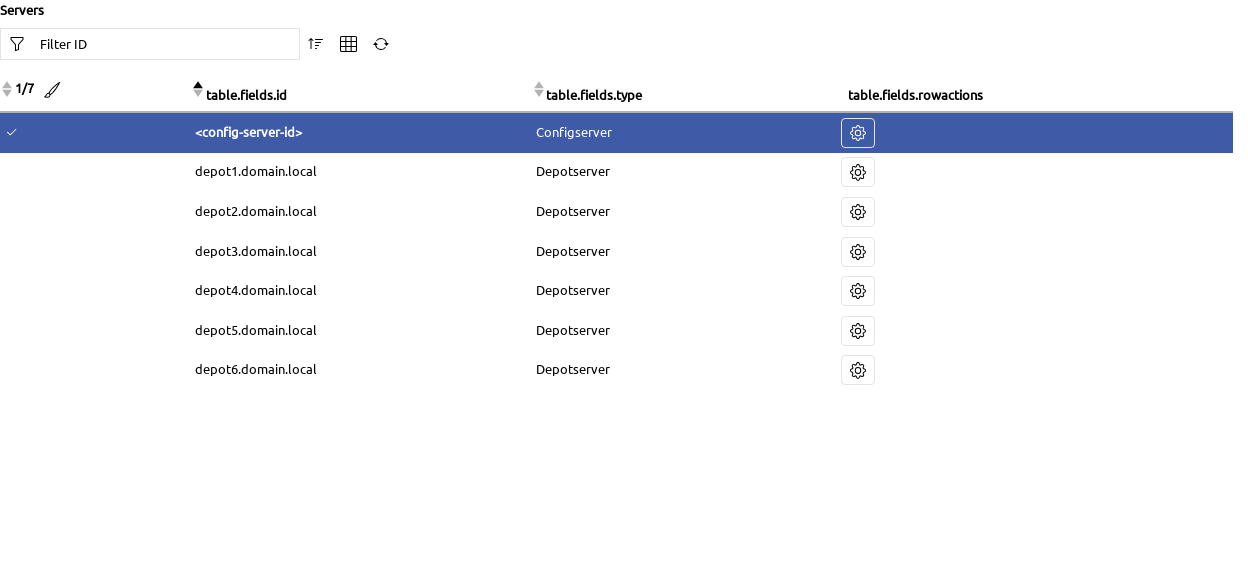
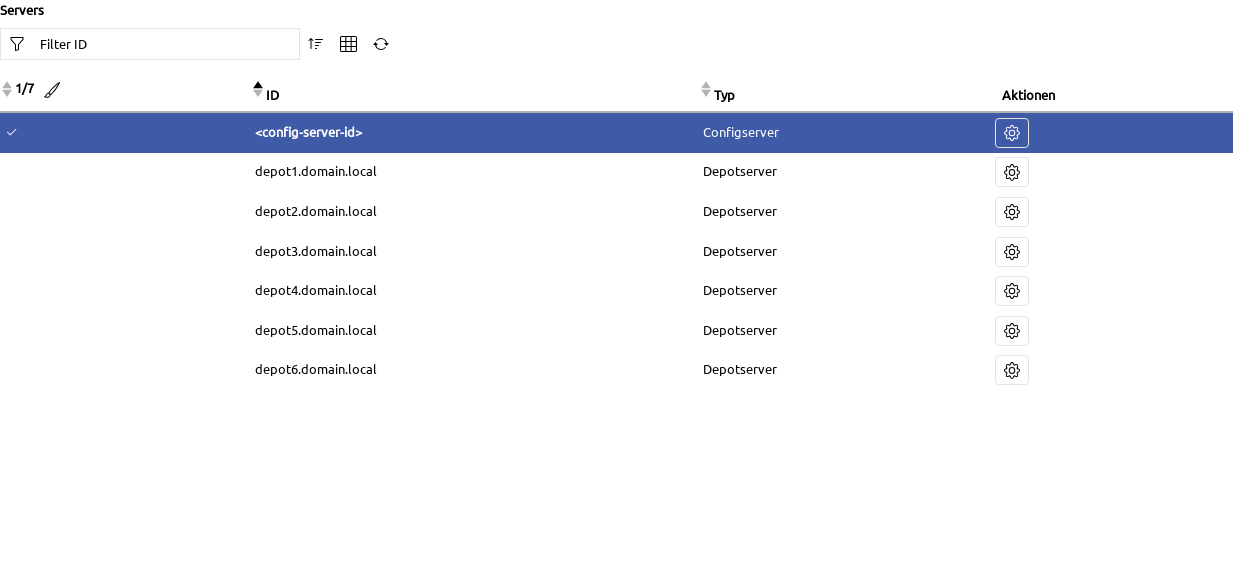
[fix] screenshots4docs
Former-commit-id: 7a0d3c85779f362c63a476146eb6fcd7884553e2

diff --git a/opsiweb/screenshots4Docs/take_screenshots/products.test.screenshot.js b/opsiweb/screenshots4Docs/take_screenshots/products.test.screenshot.js
@@ -2,18 +2,20 @@ const { test } = require('@playwright/test')
 const { callStoryId } = require('../../uib-components/.utils/playwright/pw-story-call')
 const en = require('../../uib-components/locale/en.json')
 const de = require('../../uib-components/locale/de.json')
+
 test('Products', async ({ page }) => {
   await callStoryId(page, 'view-v-products', 'v-products')
   const component = await page.locator('[data-testid="VProducts"]')
   await (new Promise(resolve => setTimeout(resolve, 1000)))
   await page.evaluate((val) => { document.querySelector('.tableheader_title').innerHTML = val }, en['title.products'])
-  // await page.evaluate((val) => { document.getElementById('treeselect-Depots').innerHTML = val }, en['title.depots'])
-  // await page.evaluate((val) => { document.getElementById('treeselect-HostGroups').innerHTML = val }, en['treeselect.clientGroups'])
-  // await page.evaluate((val) => { document.getElementById('treeselect-ProductGroups').innerHTML = val }, en['treeselect.prodGroups'])
-  await component.evaluate(() => { document.querySelector('.count').innerHTML = '0/3' })
-  await component.evaluate(() => { document.querySelector('.localboot').innerHTML = 'Localboot(3)' })
-  await component.evaluate(() => { document.querySelector('.netboot').innerHTML = 'Netboot(7)' })
-  await component.evaluate(() => { document.querySelector('.filter').placeholder = 'Filter ID' })
+
+  await page.evaluate((val) => { document.querySelector('[aria-colindex="2"] > small > b').innerHTML = val }, en['table.fields.id'])
+  await page.evaluate((val) => { document.querySelector('[aria-colindex="3"] > small > b').innerHTML = val }, en['table.fields.rowactions'])
+
+  await page.evaluate(() => { document.querySelector('.count').innerHTML = '0/3' })
+  await page.evaluate((val) => { document.querySelector('.localboot').innerHTML = val }, en['title.localboot'] + ' (3)')
+  await page.evaluate((val) => { document.querySelector('.netboot').innerHTML = val }, en['title.netboot'] + ' (7)')
+  await page.evaluate((val) => { document.querySelector('.filter').placeholder = val }, en['table.filter'].replace('{el}', en['table.fields.id']))
   await page.screenshot({
     path: './screenshots/en/opsi-webgui_products.png',
     clip: {
@@ -24,6 +26,11 @@ test('Products', async ({ page }) => {
     }
   })
   await page.evaluate((val) => { document.querySelector('.tableheader_title').innerHTML = val }, de['title.products'])
+
+  await page.evaluate(() => { document.querySelector('.count').innerHTML = '0/3' })
+  await page.evaluate((val) => { document.querySelector('.localboot').innerHTML = val }, de['title.localboot'] + ' (3)')
+  await page.evaluate((val) => { document.querySelector('.netboot').innerHTML = val }, de['title.netboot'] + ' (7)')
+  await page.evaluate((val) => { document.querySelector('.filter').placeholder = val }, de['table.filter'].replace('{el}', de['table.fields.id']))
   // await page.evaluate((val) => { document.getElementById('treeselect-HostGroups').innerHTML = val }, de['treeselect.clientGroups'])
   // await page.evaluate((val) => { document.getElementById('treeselect-ProductGroups').innerHTML = val }, de['treeselect.prodGroups'])
   await page.screenshot({

diff --git a/opsiweb/screenshots4Docs/take_screenshots/servers.test.screenshot.js b/opsiweb/screenshots4Docs/take_screenshots/servers.test.screenshot.js
@@ -1,14 +1,24 @@
 const { test } = require('@playwright/test')
 const { callStoryId } = require('../../uib-components/.utils/playwright/pw-story-call')
 const en = require('../../uib-components/locale/en.json')
+const de = require('../../uib-components/locale/de.json')
 
 test('Servers', async ({ page }) => {
   await callStoryId(page, 'view-v-depots', 'v-depots')
   const component = await page.locator('[data-testid="VDepots"]')
   await (new Promise(resolve => setTimeout(resolve, 1000)))
+  await page.evaluate(() => { document.querySelector('.count').innerHTML = '1/7' })
   await page.evaluate((val) => { document.querySelector('.tableheader_title').innerHTML = val }, en['title.depots'])
-  await component.evaluate(() => { document.querySelector('.count').innerHTML = '1/7' })
-  await component.evaluate(() => { document.querySelector('.filter').placeholder = 'Filter ID' })
+  await page.evaluate((val) => { document.querySelector('[aria-colindex="2"] > small > b').innerHTML = val }, en['table.fields.id'])
+  await page.evaluate((val) => { document.querySelector('[aria-colindex="3"] > small > b').innerHTML = val }, en['table.fields.type'])
+  await page.evaluate((val) => { document.querySelector('[aria-colindex="4"] > small > b').innerHTML = val }, en['table.fields.rowactions'])
+  await page.evaluate((val) => { document.querySelector('.filter').placeholder = val }, en['table.filter'].replace('{el}', en['table.fields.id']))
   await component.screenshot({ path: './screenshots/en/opsi-webgui_servers.png' })
+
+  await page.evaluate((val) => { document.querySelector('.tableheader_title').innerHTML = val }, de['title.depots'])
+  await page.evaluate((val) => { document.querySelector('[aria-colindex="2"] > small > b').innerHTML = val }, de['table.fields.id'])
+  await page.evaluate((val) => { document.querySelector('[aria-colindex="3"] > small > b').innerHTML = val }, de['table.fields.type'])
+  await page.evaluate((val) => { document.querySelector('[aria-colindex="4"] > small > b').innerHTML = val }, de['table.fields.rowactions'])
+  await page.evaluate((val) => { document.querySelector('.filter').placeholder = val }, de['table.filter'].replace('{el}', de['table.fields.id']))
   await component.screenshot({ path: './screenshots/de/opsi-webgui_servers.png' })
 })

diff --git a/opsiweb/screenshots4Docs/take_screenshots/clients.test.screenshot.js b/opsiweb/screenshots4Docs/take_screenshots/clients.test.screenshot.js
@@ -10,7 +10,10 @@ test('Clients', async ({ page }) => {
   await page.evaluate((val) => { document.querySelector('.tableheader_title').innerHTML = val }, en['title.clients'])
   // await page.evaluate((val) => { document.getElementById('treeselect-Depots').innerHTML = val }, en['title.depots'])
   await component.evaluate(() => { document.querySelector('.count').innerHTML = '0/5' })
-  await component.evaluate(() => { document.querySelector('.filter').placeholder = 'Filter ID' })
+
+  await page.evaluate((val) => { document.querySelector('[aria-colindex="2"] > small > b').innerHTML = val }, en['table.fields.id'])
+  await page.evaluate((val) => { document.querySelector('[aria-colindex="7"] > small > b').innerHTML = val }, en['table.fields.rowactions'])
+  await page.evaluate((val) => { document.querySelector('.filter').placeholder = val }, en['table.filter'].replace('{el}', en['table.fields.id']))
 
   // await page.evaluate((val) => { document.getElementById('treeselect-HostGroups').innerHTML = val }, en['treeselect.clientGroups'])
   await page.evaluate((val) => { document.querySelector('.tableheader_products').innerHTML = val }, en['title.products'])
@@ -23,6 +26,11 @@ test('Clients', async ({ page }) => {
       height: 460
     }
   })
+
+  await page.evaluate((val) => { document.querySelector('.tableheader_title').innerHTML = val }, de['title.clients'])
+  await page.evaluate((val) => { document.querySelector('[aria-colindex="2"] > small > b').innerHTML = val }, de['table.fields.id'])
+  await page.evaluate((val) => { document.querySelector('[aria-colindex="7"] > small > b').innerHTML = val }, de['table.fields.rowactions'])
+  await page.evaluate((val) => { document.querySelector('.filter').placeholder = val }, de['table.filter'].replace('{el}', de['table.fields.id']))
   // await page.evaluate((val) => { document.getElementById('treeselect-HostGroups').innerHTML = val }, de['treeselect.clientGroups'])
   await page.evaluate((val) => { document.querySelector('.tableheader_products').innerHTML = val }, de['title.products'])
   await page.screenshot({

diff --git a/opsiweb/screenshots4Docs/take_screenshots/table.test.screenshot.js b/opsiweb/screenshots4Docs/take_screenshots/table.test.screenshot.js
@@ -23,6 +23,16 @@ test.describe('Table', () => {
     await page.evaluate((val) => { document.querySelector('.sortDirection').innerHTML = val }, de['button.sort.tablecolumns.sortDirection'])
     await page.screenshot({ path: './screenshots/de/opsi-webgui_table_sort.png' })
   })
+  test('Sort column', async ({ page }) => {
+    await callStoryId(page, 'table-t-infinite-scroll-smooth', 't-infinite-scroll-smooth')
+    await (new Promise(resolve => setTimeout(resolve, 1000)))
+    // await comp.setViewportSize({ width: 50 })
+    await page.evaluate((val) => { document.querySelector('[aria-sort="none"]').innerHTML = val }, '')
+    const comp = await page.locator('[aria-sort="none"]')
+
+    await comp.screenshot({ path: './screenshots/en/opsi-webgui_table_sort_column.png' })
+    await comp.screenshot({ path: './screenshots/de/opsi-webgui_table_sort_column.png' })
+  })
   test('Column Selection', async ({ page }) => {
     await callStoryId(page, 'dropdown-dd-table-column-visibility', 'dd-table-column-visibility')
     await page.click('[data-testid="DropdownDDTableColumnVisibility"] .btn')
@@ -37,9 +47,9 @@ test.describe('Table', () => {
     const component = await page.locator('[data-testid="BTNRefetch"]')
     await (new Promise(resolve => setTimeout(resolve, 1000)))
     await page.setViewportSize({ width: 220, height: 340 })
-    await page.evaluate((val) => { document.querySelector('.refreshlabel').innerHTML = val }, 'Refresh')
+    // await page.evaluate((val) => { document.querySelector('.refreshlabel').innerHTML = val }, 'Refresh')
     await component.screenshot({ path: './screenshots/en/opsi-webgui_table_refresh.png' })
-    await page.evaluate((val) => { document.querySelector('.refreshlabel').innerHTML = val }, 'Aktualisierung')
+    // await page.evaluate((val) => { document.querySelector('.refreshlabel').innerHTML = val }, 'Aktualisierung')
     await component.screenshot({ path: './screenshots/de/opsi-webgui_table_refresh.png' })
   })
 })

diff --git a/opsiweb/screenshots4Docs/take_screenshots/buttonclearselection.test.screenshot.js b/opsiweb/screenshots4Docs/take_screenshots/buttonclearselection.test.screenshot.js
@@ -1,14 +1,14 @@
 const { test } = require('@playwright/test')
 const { callStoryId } = require('../../uib-components/.utils/playwright/pw-story-call')
-const en = require('../../uib-components/locale/en.json')
-const de = require('../../uib-components/locale/de.json')
+// const en = require('../../uib-components/locale/en.json')
+// const de = require('../../uib-components/locale/de.json')
 
 test('Button Clear Selection', async ({ page }) => {
   await callStoryId(page, 'button-btn-clear-selection', 'btn-clear-selection')
   const component = await page.locator('[data-testid="BTNClearSelection"]')
   await (new Promise(resolve => setTimeout(resolve, 1000)))
-  await page.evaluate((val) => { document.querySelector('.clearButton').innerHTML = val }, en['table.selection.clear'])
+  // await page.evaluate((val) => { document.querySelector('.clearButton').innerHTML = val }, en['table.selection.clear'])
   await component.screenshot({ path: './screenshots/en/opsi-webgui_buttonclearselect.png' })
-  await page.evaluate((val) => { document.querySelector('.clearButton').innerHTML = val }, de['table.selection.clear'])
+  // await page.evaluate((val) => { document.querySelector('.clearButton').innerHTML = val }, de['table.selection.clear'])
   await component.screenshot({ path: './screenshots/de/opsi-webgui_buttonclearselect.png' })
 })

diff --git a/opsiweb/screenshots4Docs/take_screenshots/quickpanel.test.screenshot.js b/opsiweb/screenshots4Docs/take_screenshots/quickpanel.test.screenshot.js
@@ -4,6 +4,24 @@ const { callStoryId } = require('../../uib-components/.utils/playwright/pw-story
 // const de = require('../../uib-components/locale/de.json')
 
 test.describe('Quick Panel', () => {
+  test('', async ({ page }) => {
+    await page.unroute('**/api/**')
+    await page.route('**/api/**', (route) => {
+      console.log('ROUTE NOT MOCKED: \t\t', route._parent._initializer.url)
+      route.abort()
+    })
+    await callStoryId(page, 'bar-b-quick-panel', 'b-quick-panel')
+    await (new Promise(resolve => setTimeout(resolve, 1000)))
+    // await page.evaluate((val) => { document.querySelector('label>.text-small').innerHTML = val }, en['form.quicksave'])
+    const comp = page.locator('#quickpanel')
+    await comp.screenshot({ path: './screenshots/en/opsi-webgui_quickpanel.png' })
+
+    await page.click('[data-testid="DropdownDDLang"]')
+    await page.click('[data-testid="DropdownDDLang-Item-de"]')
+    // const component = page.locator('[data-testid="DropdownDDLang"]')
+    await comp.screenshot({ path: './screenshots/de/opsi-webgui_quickpanel.png' })
+  })
+
   test('tab depots', async ({ page }) => {
     await page.unroute('**/api/**')
     await page.route('**/api/**', (route) => {

diff --git a/opsiweb/uib-components/components/checkbox/CBQuickSave.vue b/opsiweb/uib-components/components/checkbox/CBQuickSave.vue
@@ -9,6 +9,7 @@
       <span class="text-small">{{ $t('message.error.unsavedChanges') }}</span>
     </AlertAAlertLocal>
     <div v-else class="d-flex flex-nowrap justify-content-center border">
+      <!-- -if="port=='8888'" -->
       <b-form-checkbox
         v-model="localquicksave"
         data-testid="CBQuickSave"
@@ -48,6 +49,7 @@ const changes = namespace('changes')
 @Component({ mixins: [Icons] })
 export default class CBQuickSave extends Vue {
   icon: any
+  window:any
   $t: any
   localquicksave: boolean = false
 
@@ -57,6 +59,7 @@ export default class CBQuickSave extends Vue {
   @changes.Getter public changesProducts!: Array<ChangeObj>
   @changes.Getter public changesHostParam!: Array<ChangeObj>
 
+  get port () { return window.location.port }
   beforeMount () {
     this.localquicksave = this.quicksave
   }

diff --git a/opsiweb/uib-components/components/button/BTNClearSelection.stories.js b/opsiweb/uib-components/components/button/BTNClearSelection.stories.js
@@ -6,8 +6,13 @@ export default {
 
 const PrimaryTemplate = (_args, { argTypes }) => ({
   props: Object.keys(argTypes),
-  template: '<ButtonBTNClearSelection short />'
+  template: '<ButtonBTNClearSelection short :showLabel="false" />'
+})
+const PrimaryTemplateLong = (_args, { argTypes }) => ({
+  props: Object.keys(argTypes),
+  template: '<ButtonBTNClearSelection />'
 })
 
 // named export Primary to create respective story
 export const BTNClearSelection = PrimaryTemplate.bind({})
+export const BTNClearSelectionLong = PrimaryTemplateLong.bind({})

diff --git a/opsiweb/uib-components/components/button/BTNRefetch.stories.js b/opsiweb/uib-components/components/button/BTNRefetch.stories.js
@@ -10,7 +10,8 @@ export default {
 
 const PrimaryTemplate = (_args, { argTypes }) => ({
   props: Object.keys(argTypes),
-  template: '<ButtonBTNRefetch v-bind="$props" />'
+  // template: '<ButtonBTNRefetch v-bind="$props" />'
+  template: '<ButtonBTNRefetch :is-loading="false" tooltip="TT" :refetch="() => {}" />'
 })
 
 export const BTNRefetch = PrimaryTemplate.bind({})

diff --git a/opsiweb/uib-components/components/button/BTNClearSelection.vue b/opsiweb/uib-components/components/button/BTNClearSelection.vue
@@ -11,7 +11,7 @@
   >
     <span class="sr-only">{{ $t('table.selection.clear') }}</span>
     <b-icon :icon="icon.clear" />
-    <span v-if="showLabel" class="clearButton">{{ label? label: $t('table.selection.clear') }} </span>
+    <span v-if="showLabel == true" class="clearButton">{{ label? label: $t('table.selection.clear') }} </span>
   </b-button>
 </template>
 
